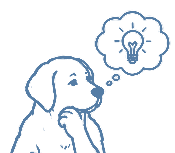
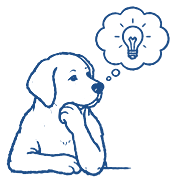
Refine brand assets, copy, and Kiron feature
- Switch nav + footer to the full Berkeley Labs badge logo (cream variant for dark footer)
- Knock out cream background on primary logo (no more box artifact over hero circle)
- Re-cut all line-art illustrations with proper margins (fixes clipped snouts/labels)
- Swap Kiron card art to the Kiron runner mark
- Display font: Space Grotesk -> Fraunces
- Hero eyebrow: "AI Studio & Lab - Pacific Northwest"
- Remove physical address; location now Seattle, WA in footer

Changed region(s): [[0.0286, 0.0261, 0.9714, 1.0], [0.8, 0.4183, 0.8857, 0.4706], [0.7143, 0.4706, 0.8, 0.4967]]

diff --git a/src/styles/global.css b/src/styles/global.css
@@ -15,7 +15,7 @@
   --color-coral-soft: #E8916F;
 
   --font-sans: "Plus Jakarta Sans", sans-serif;
-  --font-display: "Space Grotesk", sans-serif;
+  --font-display: "Fraunces", Georgia, serif;
 }
 
 html {
@@ -27,6 +27,7 @@ body {
   color: #14222F;
   font-family: "Plus Jakarta Sans", sans-serif;
   -webkit-font-smoothing: antialiased;
+  font-optical-sizing: auto;
   overflow-x: hidden;
 }
 
@@ -71,19 +72,20 @@ body {
 .wag { transform-origin: bottom center; animation: wag 1.2s ease-in-out infinite; }
 
 /* ---------- Type helpers ---------- */
-.font-display { font-family: "Space Grotesk", sans-serif; }
+.font-display { font-family: "Fraunces", Georgia, serif; font-optical-sizing: auto; }
 .eyebrow {
-  font-family: "Space Grotesk", sans-serif;
+  font-family: "Plus Jakarta Sans", sans-serif;
   font-size: 0.72rem;
   font-weight: 600;
   letter-spacing: 0.22em;
   text-transform: uppercase;
 }
 .headline {
-  font-family: "Space Grotesk", sans-serif;
-  font-weight: 700;
-  letter-spacing: -0.02em;
-  line-height: 1.02;
+  font-family: "Fraunces", Georgia, serif;
+  font-optical-sizing: auto;
+  font-weight: 600;
+  letter-spacing: -0.015em;
+  line-height: 1.04;
 }
 .underline-marker {
   background-image: linear-gradient(transparent 62%, rgba(224,120,86,0.35) 62%);
@@ -92,7 +94,7 @@ body {
 
 /* ---------- Buttons ---------- */
 .btn {
-  font-family: "Space Grotesk", sans-serif;
+  font-family: "Plus Jakarta Sans", sans-serif;
   font-weight: 600;
   border-radius: 9999px;
   transition: all 0.25s cubic-bezier(.16,1,.3,1);
